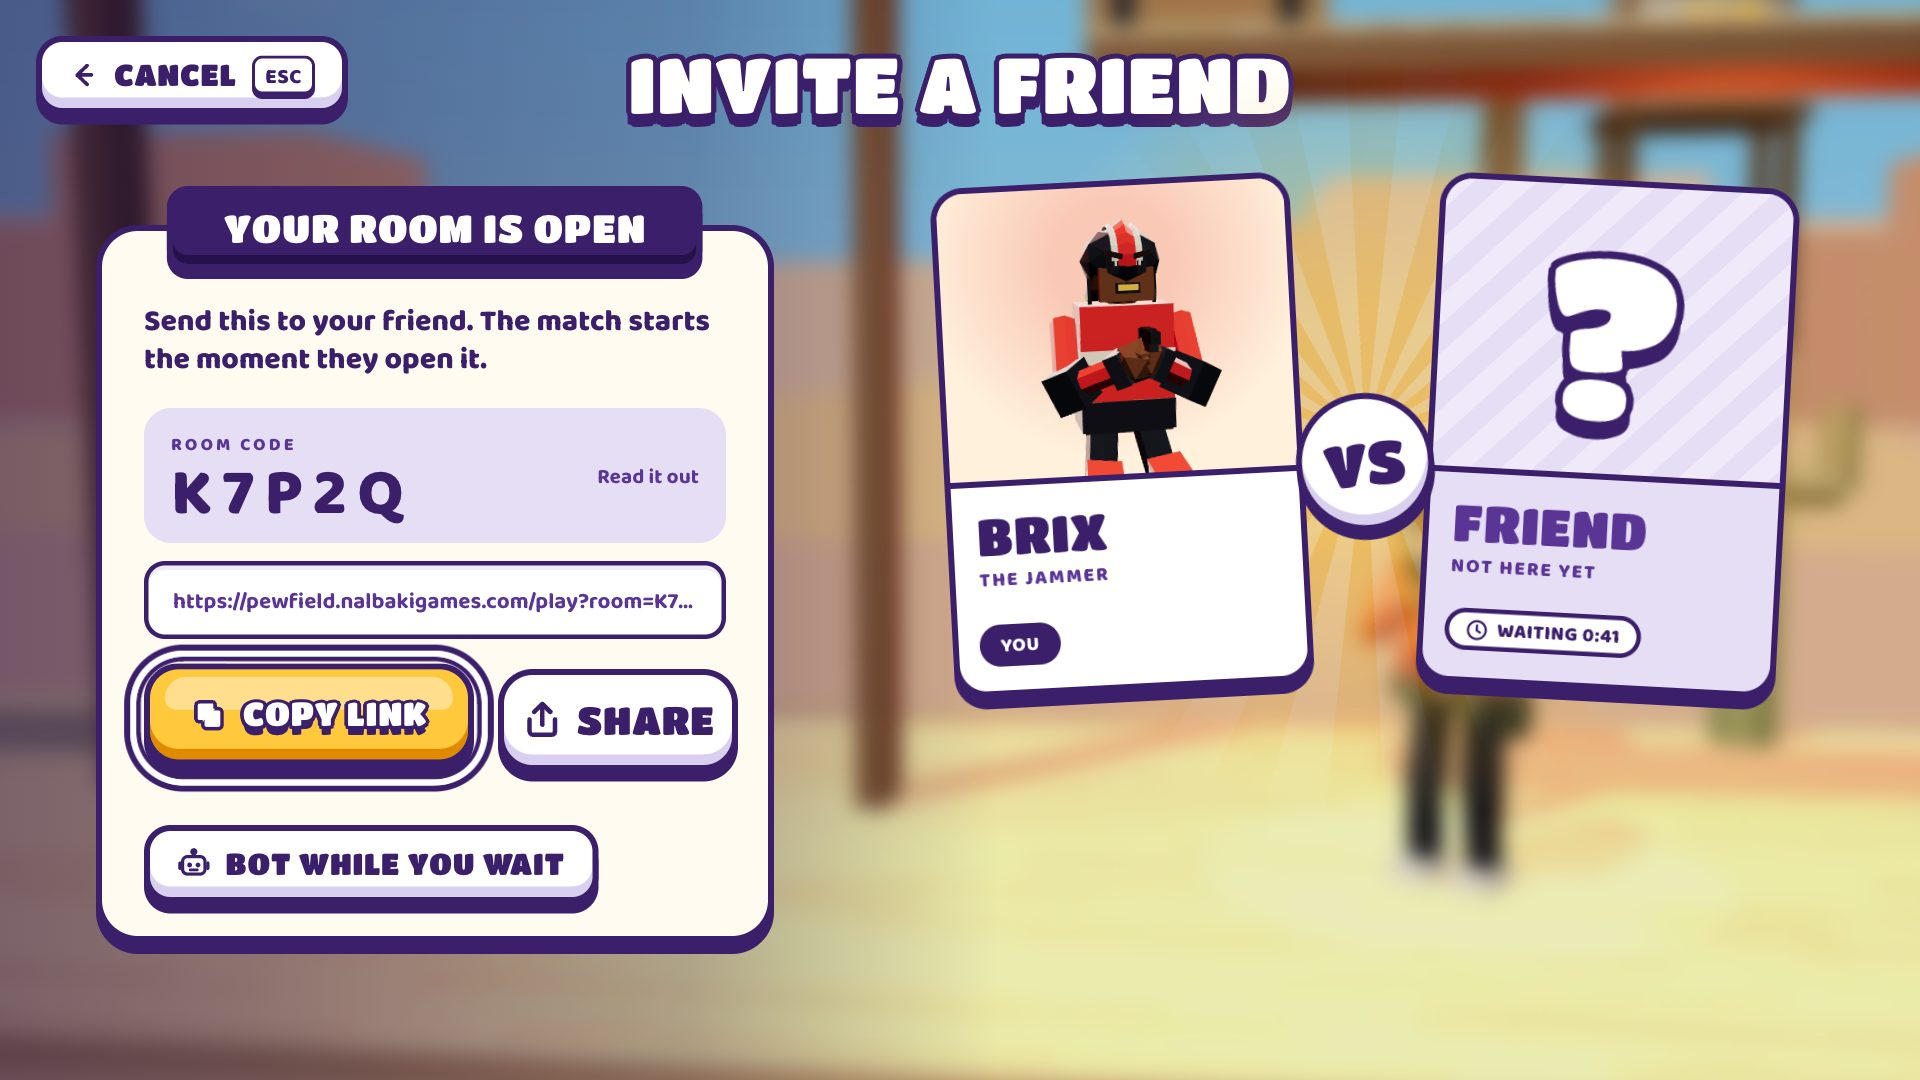
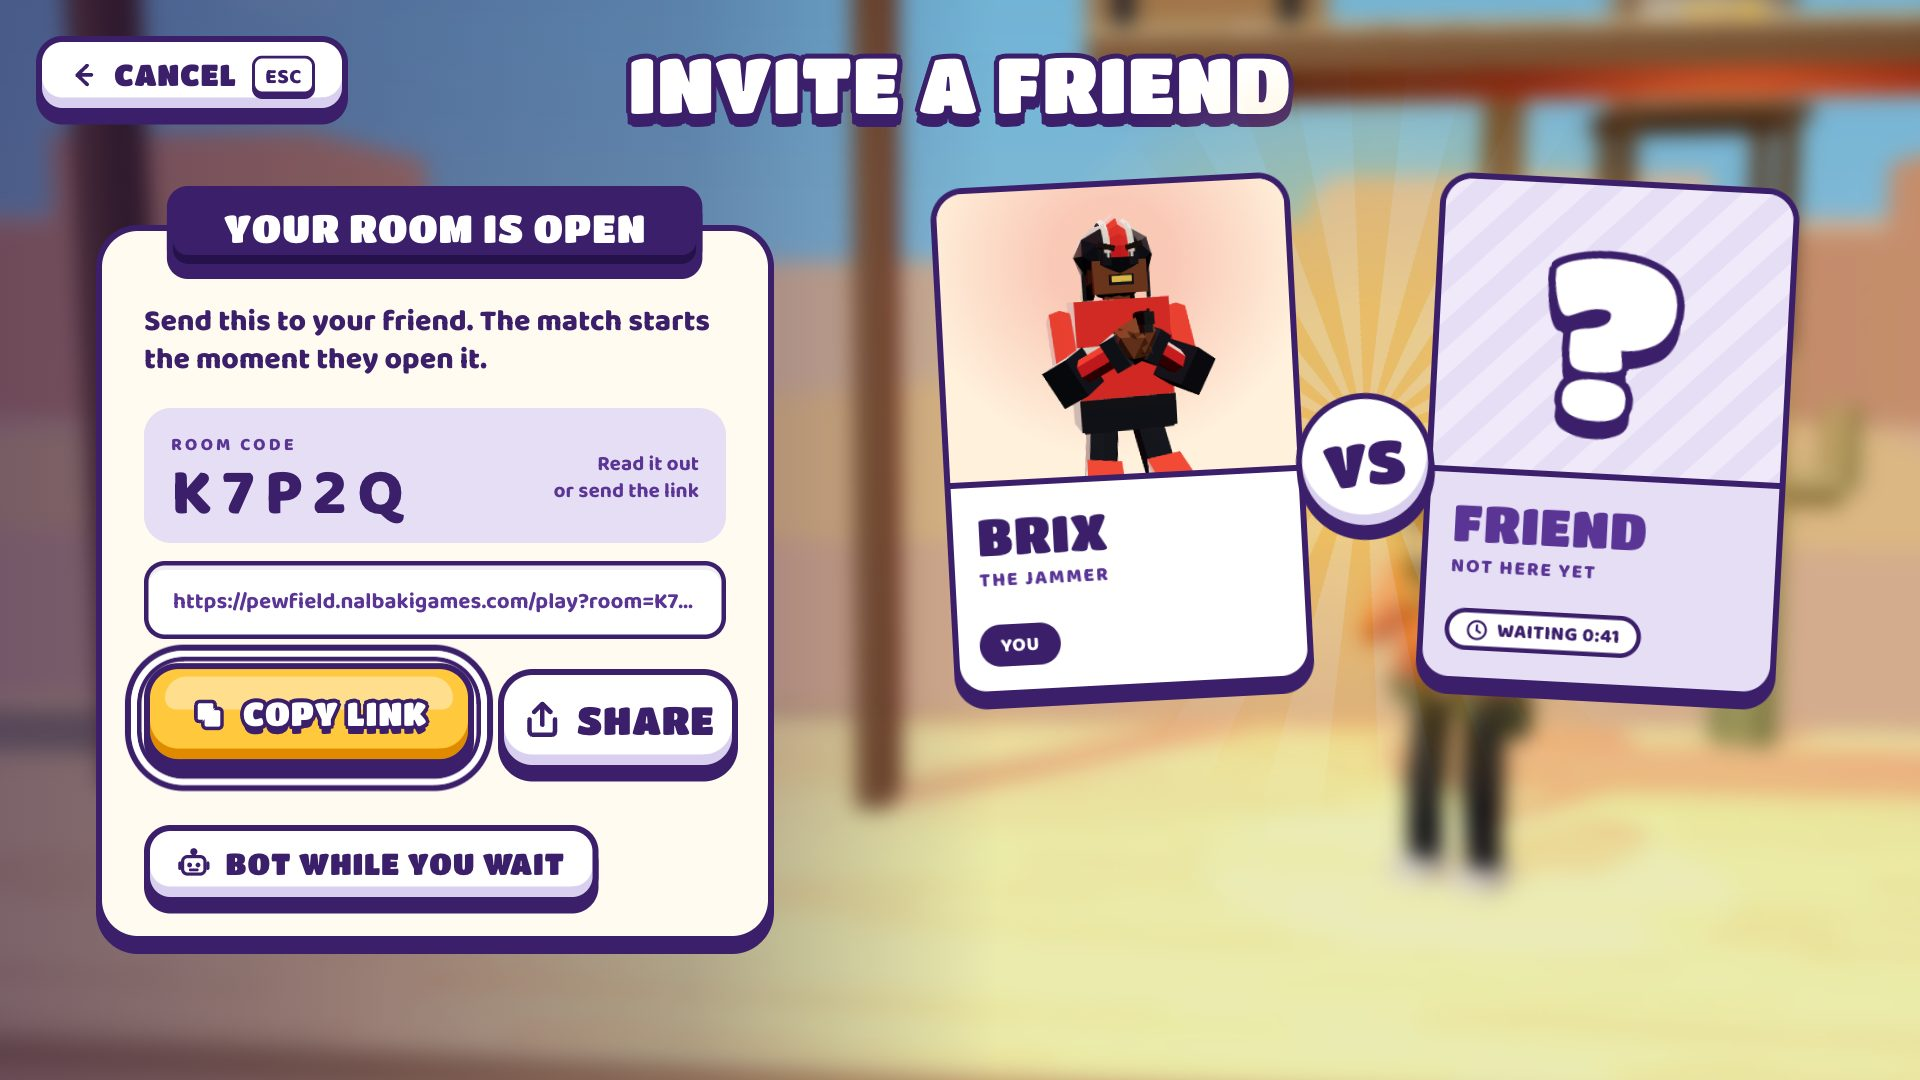
R-034 follow-ups F-085..F-087; quick-match ghost seats freed on drop; first E2E against the deployed Fly servers
F-085: the joining frame shows the typed code in the invite code well (Checking…), hugs its content, rival card KNOCKING….
F-086: the VS doors ribbon flag is white pole and outline with a sun cloth (flagOnDark), doors only.
F-087: code row line and the invite well's two lines after case-free codes.
DuelRoom.onDrop: a public room with no match running does not hold a dropped player's seat (a closed tab made the next
quick-match player wait next to a ghost on Fly); test. flyprobe.mts measures a deployed server; Fly E2E data and shots.

diff --git a/src/components/online/LobbyScreen.tsx b/src/components/online/LobbyScreen.tsx
@@ -154,8 +154,10 @@ const FaceOff = ({ ui, me }: { ui: LobbyUi; me: CharacterId }) => {
       rival = <MysteryCard name={T.menu.rivalName} role={T.menu.rivalRole} />;
       break;
     case 'code':
-    case 'joining':
       rival = <MysteryCard name={T.code.friendName} role={T.code.friendRole} />;
+      break;
+    case 'joining':
+      rival = <MysteryCard name={T.code.friendName} role={T.code.joiningRole} searching />;
       break;
     case 'connecting':
       rival = <MysteryCard name={T.menu.rivalName} role={T.connecting.rivalRole} />;
@@ -289,7 +291,10 @@ const CodeEntry = ({ h }: { h: LobbyHandlers }) => {
           }
         }}
       />
-      {/* Spec 3.1 `Codes care about capital letters.` is deleted: R-033 codes are case-free. */}
+      {/* F-087: the old capitals line's slot (R-033 codes are case-free). */}
+      <div className="on-small" style={{ left: 30, top: 180 }}>
+        {T.code.caseNote}
+      </div>
       <FdButton tone="sun" size="md" style={{ position: 'absolute', left: 28, top: 222, width: 240 }} disabled={!text.trim()} data-nav data-testid="code-join" after={<Keycap k="ENTER" />} onClick={join}>
         {T.code.join}
       </FdButton>
@@ -358,15 +363,25 @@ const Left = ({ ui, h }: { ui: LobbyUi; h: LobbyHandlers }) => {
       return <CodeEntry h={h} />;
     case 'joining':
       return (
-        <div className="on-panel" style={{ left: 64, top: 150, width: 452, height: 250 }} data-testid="joining-panel">
+        // F-085: the panel hugs its content; the typed code in the invite frame's code well; CANCEL 16 px under it.
+        <div className="on-panel" style={{ left: 64, top: 150, width: 452, height: 287 }} data-testid="joining-panel">
           <PanelRibbon icon="globeOnDark">{T.code.joiningRibbon}</PanelRibbon>
           <div className="on-line" style={{ left: 28, right: 28, top: 52 }}>
             {T.code.joiningLine}
           </div>
-          <div className="on-small" style={{ left: 28, right: 28, top: 86, color: 'var(--gray-ink)' }}>
-            {ui.code}
+          <div className="on-codewell" style={{ left: 28, right: 28, top: 98 }}>
+            <span>
+              <span className="on-hlabel">{T.invite.codeLabel}</span>
+              <br />
+              <span className="on-code" data-testid="joining-code">
+                {ui.code}
+              </span>
+            </span>
+            <span className="on-small" style={{ position: 'static', textAlign: 'right' }}>
+              {T.code.joiningCheck}
+            </span>
           </div>
-          <FdButton tone="white" size="sm" sound="back" data-nav data-nav-pref data-testid="cancel" style={{ position: 'absolute', left: 28, top: 180 }} after={<Keycap k="ESC" />} onClick={h.onCancel}>
+          <FdButton tone="white" size="sm" sound="back" data-nav data-nav-pref data-testid="cancel" style={{ position: 'absolute', left: 28, top: 204 }} after={<Keycap k="ESC" />} onClick={h.onCancel}>
             {T.connecting.cancel}
           </FdButton>
         </div>
@@ -459,7 +474,9 @@ const Left = ({ ui, h }: { ui: LobbyUi; h: LobbyHandlers }) => {
               </span>
             </span>
             <span className="on-small" style={{ position: 'static', textAlign: 'right' }}>
-              {T.invite.readOut}
+              {T.invite.readOut[0]}
+              <br />
+              {T.invite.readOut[1]}
             </span>
           </div>
           <input

diff --git a/src/game/net/duelRoom.server.test.ts b/src/game/net/duelRoom.server.test.ts
@@ -34,6 +34,7 @@ const next = <T,>(room: Room, type: string, ms = 4000) =>
       res(m);
     });
   });
+const next2 = <T,>(room: Room, type: string, ms = 4000) => next<T>(room, type, ms);
 const quiet = (room: Room) => {
   for (const t of ['waiting', 'peer', 'start', 'snap', 'pauseState', 'left', 'dropped', 'back', 'signal']) room.onMessage(t, () => {});
 };
@@ -213,6 +214,26 @@ describe('DuelRoom on a real server', () => {
     quiet(b);
     await a.leave();
     await b.leave();
+  }, 10_000);
+
+  it('a dropped searcher (closed tab, no match yet) frees the quick-match seat at once: the next player never meets a ghost', async () => {
+    const ghost = await new Client(url).joinOrCreate(ROOM_NAME, opts());
+    quiet(ghost);
+    await wait(200);
+    const id = ghost.roomId;
+    // An unconsented close, as when a tab is closed or the network drops.
+    await ghost.leave(false);
+    await wait(300);
+    const next = await new Client(url).joinOrCreate(ROOM_NAME, opts({ character: 'legacy' }));
+    const waiting = next2(next, 'waiting');
+    let peer = false;
+    next.onMessage('peer', () => (peer = true));
+    expect(await waiting).toBeTruthy();
+    await wait(300);
+    expect(peer).toBe(false);
+    expect(next.roomId).not.toBe(id);
+    quiet(next);
+    await next.leave();
   }, 10_000);
 
   it('refuses a client of another protocol version', async () => {

diff --git a/src/components/online/onlineCopy.ts b/src/components/online/onlineCopy.ts
@@ -51,6 +51,11 @@ export const ONLINE_COPY = {
     hints: { join: 'Join', close: 'Close' },
     joiningRibbon: 'JOINING…',
     joiningLine: "Getting you into your friend's room.",
+    // F-085: the joining frame's code well and rival card.
+    joiningCheck: 'Checking…',
+    joiningRole: 'KNOCKING…',
+    // F-087: the slot the capitals line left under the field.
+    caseNote: '5 letters or numbers. Small letters work too.',
   },
   connecting: {
     title: 'QUICK MATCH',
@@ -90,9 +95,8 @@ export const ONLINE_COPY = {
     ribbon: 'YOUR ROOM IS OPEN',
     line: 'Send this to your friend. The match starts the moment they open it.',
     codeLabel: 'ROOM CODE',
-    // Spec: `Read it out` / `with the capitals`. R-033 made codes case-free, so the second line would be false: dropped
-    // (the spec says to delete the capitals line when case-free codes land); flagged back to the Creative Director.
-    readOut: 'Read it out',
+    // F-087 (after R-033's case-free codes).
+    readOut: ['Read it out', 'or send the link'] as const,
     copy: 'COPY LINK',
     copied: 'COPIED!',
     copiedSr: 'Link copied',

diff --git a/src/components/online/online.test.ts b/src/components/online/online.test.ts
@@ -161,3 +161,17 @@ describe('R-032 acceptance (static)', () => {
     expect(arena).not.toMatch(/NetBadge|Connection unstable/);
   });
 });
+
+describe('R-034 review follow-ups (F-085, F-086, F-087)', () => {
+  it('copy after case-free codes and the joining frame', () => {
+    expect(ONLINE_COPY.code.caseNote).toBe('5 letters or numbers. Small letters work too.');
+    expect(ONLINE_COPY.invite.readOut).toEqual(['Read it out', 'or send the link']);
+    expect(ONLINE_COPY.code.joiningCheck).toBe('Checking…');
+    expect(ONLINE_COPY.code.joiningRole).toBe('KNOCKING…');
+    expect(ONLINE_COPY.code.friendRole).toBe('WAITING FOR A CODE');
+  });
+  it('the VS doors ribbon draws the on-dark flag; other flags stay', () => {
+    expect(read('src/components/VsDoors.tsx')).toMatch(/<Icon name="flagOnDark" size=\{24\} \/>/);
+    expect(read('src/components/VsDoors.tsx')).not.toMatch(/<Icon name="flag" /);
+  });
+});

diff --git a/server/DuelRoom.ts b/server/DuelRoom.ts
@@ -271,6 +271,10 @@ export class DuelRoom extends Room {
     const seat = this.seatOf(client);
     if (!seat) return;
     this.clearBotTimer();
+    // A public room with no match running (searching, or on standby during a browser-bot match): a closed tab must not keep its
+    // seat for 20 s, or the next quick-match player lands next to a ghost and waits for nothing (seen on Fly, 2026-11-28).
+    // Not holding the seat lets the drop end in onLeave. Invite rooms and running matches keep the reconnection window.
+    if (!this.auth && !this.handshake && !this.privateRoom) return;
     const slot = this.seats.indexOf(seat);
     if (this.auth) this.auth.state.paused = true;
     this.sendPause(); // the other client must stop predicting too

diff --git a/src/components/VsDoors.tsx b/src/components/VsDoors.tsx
@@ -145,7 +145,7 @@ const VsInner = ({ info, phase, shut, stampOn, opening, note }: { info: VsInfo; 
           <div className="fd-abs" style={{ left: '50%', top: 24, transform: 'translateX(-50%)', animation: 'fd-fade 200ms linear both' }}>
             <Ribbon height={56} tilt={0}>
               <span style={{ display: 'inline-flex', alignItems: 'center', gap: 10 }} data-testid="vs-arena">
-                <Icon name="flag" size={24} />
+                <Icon name="flagOnDark" size={24} />
                 {ARENA_COPY[info.arena ?? DEFAULT_ARENA].name}
               </span>
             </Ribbon>

diff --git a/src/components/fieldday/Icon.tsx b/src/components/fieldday/Icon.tsx
@@ -66,6 +66,13 @@ const ICONS = {
       <path d="M16 14l5 5M21 14l-5 5" fill="none" />
     </g>
   ),
+  // F-086: the flag on a grape surface (the VS doors' arena ribbon): white pole and outline, sun cloth.
+  flagOnDark: (
+    <g stroke="#FFFFFF" strokeWidth="2.4" strokeLinejoin="round" strokeLinecap="round">
+      <path d="M5.5 21.5V3" />
+      <path d="M5.5 4h13l-3 4.5 3 4.5h-13z" fill="#FFC83D" />
+    </g>
+  ),
   globeOnDark: (
     <g fill="none" stroke="#fff" strokeWidth="2.4">
       <circle cx="12" cy="12" r="9" />

diff --git a/docs/collab/FEEDBACK.md b/docs/collab/FEEDBACK.md
@@ -756,14 +756,14 @@ Covers in `~/Desktop/projects/games-studio/crazygames/covers/pewfield/`, copy in
   3. Rival card role `KNOCKING…` (replaces `WAITING FOR A CODE` in this state only; `onlineCopy.ts` `friendRole` stays for the code row). No chip.
   4. CANCEL `[ESC]` white sm under the well, 16 px gap. Ribbon `JOINING…` and line unchanged.
 - Expected result: at 1280x720 the panel bottom sits ≤ 24 px below CANCEL; the code reads at the same size as on the invite frame; no frame of the join flow shows `WAITING FOR A CODE` after JOIN is pressed. On failure the existing `THAT ROOM IS GONE` frame follows (unchanged).
-- Related: `CREATIVE/ui/direction-b/online/spec.md` 3.3 (joining row) and 3.4 (code well). Status: open
+- Related: `CREATIVE/ui/direction-b/online/spec.md` 3.3 (joining row) and 3.4 (code well). Status: done (engineering 2026-11-28, see LOG.md "R-034 follow-ups"; shots docs/online/shots/r032-impl/lobby-joining-*, lobby-code-*, lobby-invite-*, f086-doors-*)
 
 ## F-086 — VS doors: the arena flag is invisible on the grape ribbon (P1, R-034, offline too)
 - What is wrong (`e2e-lone-3-doors.jpg`): `VsDoors.tsx` draws `<Icon name="flag">`, whose pole and outline are grape (`G`) on the grape ribbon, so only a white smudge shows before `OFFSITE`. Offline and online.
 - Why it matters: the doors are the most screenshotted frame of the match; a broken mark next to the arena name looks like a rendering bug.
 - What should change: on the doors ribbon only, draw the flag with **stroke #FFFFFF** (pole and outline, width 2.4 as today) and **cloth fill `--sun` #FFC83D**, size 24, gap 10 (unchanged). This matches the HUD arena pill, where the arena name is sun on grape. Suggested: an optional `stroke` / `fill` override on `Icon` for this one icon, or a `flagOnDark` glyph; every other `flag` use (HOT STREAK medallion on white) stays as is.
 - Expected result: in the doors shot at 1280x720 the pole and the sun cloth are clearly visible left of the arena name, on both arenas, offline and online.
-- Related: `CREATIVE/ui/direction-b/spec.md` (VS doors). Status: open
+- Related: `CREATIVE/ui/direction-b/spec.md` (VS doors). Status: done (engineering 2026-11-28, see LOG.md "R-034 follow-ups"; shots docs/online/shots/r032-impl/lobby-joining-*, lobby-code-*, lobby-invite-*, f086-doors-*)
 
 ## F-087 — Copy after case-free codes (R-033): the two gaps the cut left (P2, R-034 b)
 - What is wrong: R-033 rightly cut `Codes care about capital letters.` and `with the capitals`. The cuts left (1) an empty ~50 px band between the code field and JOIN (`lobby-code-1280x720.jpg`), and (2) a lone `Read it out` beside the code on the invite frame.
@@ -771,4 +771,4 @@ Covers in `~/Desktop/projects/games-studio/crazygames/covers/pewfield/`, copy in
   - Code row small line (same slot and style as the old capitals line: small, grape-2, under the field): `5 letters or numbers. Small letters work too.`
   - Invite code well, right side, two small lines: `Read it out` / `or send the link`.
 - Expected result: no empty band under the code field at 1280x720; the invite well's right side has two lines, as the mockup's.
-- Related: spec 3.3, 3.4 (updated in R-034). Status: open
+- Related: spec 3.3, 3.4 (updated in R-034). Status: done (engineering 2026-11-28, see LOG.md "R-034 follow-ups"; shots docs/online/shots/r032-impl/lobby-joining-*, lobby-code-*, lobby-invite-*, f086-doors-*)

diff --git a/docs/online/2026-11-28-matchmaking.md b/docs/online/2026-11-28-matchmaking.md
@@ -103,6 +103,36 @@ How to read it:
   moves by 0-17 ms.
 - **Visible snaps (> 50 cm)**: 0.5-16 per minute before, 0-4.4 after.
 
+## 0c. First run against the real Fly servers (2026-11-28, after the coordinator's deploy)
+
+The coordinator deployed fra (`floor42-game`) and iad (`floor42-game-iad`), one `shared-cpu-1x` 256 MB machine each,
+with autostop. Tested from the owner's machine with a local Next dev (`NEXT_PUBLIC_ONLINE=1`,
+`NEXT_PUBLIC_GAME_REGIONS` = both regions). Raw data: `data/fly-e2e-2026-11-28.json`.
+
+**Problems first**
+1. **A ghost seat ate a player (fixed in code, needs a redeploy).** A player who closed the tab while searching or on
+   standby kept their quick-match seat for the 20 s reconnection window. The next player joined that room and waited
+   for nothing. In the first Fly run, two humans ended up in different rooms.
+   - Fix in `DuelRoom.onDrop`: no reconnection window in a public room with no match running.
+   - Test: `duelRoom.server.test.ts`. It fails without the fix.
+   - **The Fly servers still run the old code.**
+2. **Round trip from this machine is high, and the edge sets it, not the region.**
+   - TCP connect to Fly's edge alone takes 120-140 ms for either host, so this machine reaches Fly's edge far away.
+   - WebSocket ping: fra p50 136 ms (min 126), iad p50 211 ms. Browser `/ping` median: fra 140 ms, iad 223 ms.
+   - iad is +83 ms over fra, beyond the +60 cap, so quick match here plans fra only (bot at home), as designed.
+   - The very first fra request took 6.8 s (cold start after autostop). The probe's 6 s warm-up nearly runs out.
+3. **The ping pill's 4 ms / 9 ms in the pair tests is the direct line between two browsers on one machine.** Two
+   players in different homes on server mode from here would see about 136 ms each to fra.
+
+**What worked on Fly**
+- **Lone player:** A BOT STEPS IN 8.9 s after the press, doors YOU vs BOT · NORMAL 1.3 s later, and the result BOT chip.
+- **Two humans:** matched in 4.2 s. Found frame: `A player from Europe is in.` Doors YOU vs RIVAL. **The direct line
+  formed** (pill `9 MS`, title `direct line`). Rematch started 127 ms after both pressed.
+- **Invite:** code `ZQWK5`, typed as `zqwk5` by the friend, joined in 2.9 s.
+- **Server tick on `shared-cpu-1x`:** one room in server mode (`tools/netlab/flyprobe.mts`) runs at 59.9-60.1
+  snapshots/s, gap p50 16.5 ms, p99 26-35 ms, max 86-120 ms, about 49 KB/s per client. Throttling with several rooms
+  is still not measured.
+
 ## 0b. Online screens (R-032) and room codes (R-033), same day
 
 The Creative Director's spec (`docs/collab/CREATIVE/ui/direction-b/online/spec.md`) is built. Review is requested in R-034.

diff --git a/docs/collab/LOG.md b/docs/collab/LOG.md
@@ -334,3 +334,5 @@ Replaced the old result UI (ResultSlab.tsx deleted, LateStamp/CountUp and the f4
   - Observation, no F-item: the focused CANCEL on the search frames shows the double focus ring on load; it is the spec'd focus look and helps keyboard/pad players, so it stays.
   - Spec `CREATIVE/ui/direction-b/online/spec.md` updated for d, b (new copy), e (pointer to F-085), f. ID note: F-084 is the ZUZU HP item on `portal-build`; this branch continues at F-085.
   - Not verified: 1920x1080 and small sizes of the shaky chip (only the layout-check JSON, not looked at frame by frame); phones; F-086 on the office arena doors (only OFFSITE shot seen).
+- 2026-11-28 - R-034 follow-ups (Engineering, `online-bots`): F-085 (joining frame: code well with `Checking…`, panel hugs its content, rival card `KNOCKING…`), F-086 (VS doors ribbon flag: white pole and outline, sun cloth, doors only via the new `flagOnDark` glyph; `flag` elsewhere unchanged), F-087 (`5 letters or numbers. Small letters work too.`, `Read it out` / `or send the link`). Layout check 0 issues at 1280x720, 1920x1080, 907x510, 800x450 for the three frames.
+  - Also: first E2E against the deployed Fly servers (docs/online/2026-11-28-matchmaking.md §0c). Found a ghost-seat bug: a closed tab kept its quick-match seat for 20 s. Fixed in `DuelRoom.onDrop` with a test. The servers need a redeploy to get it.
